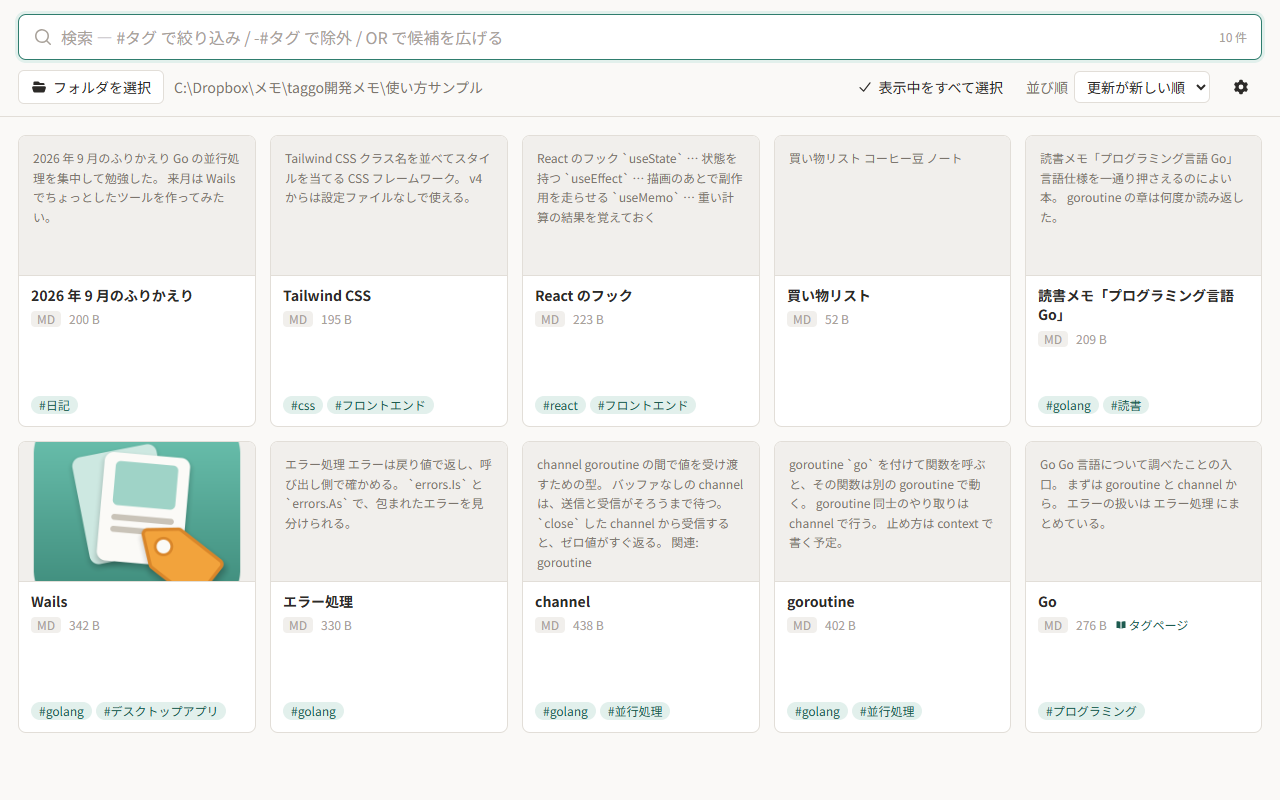
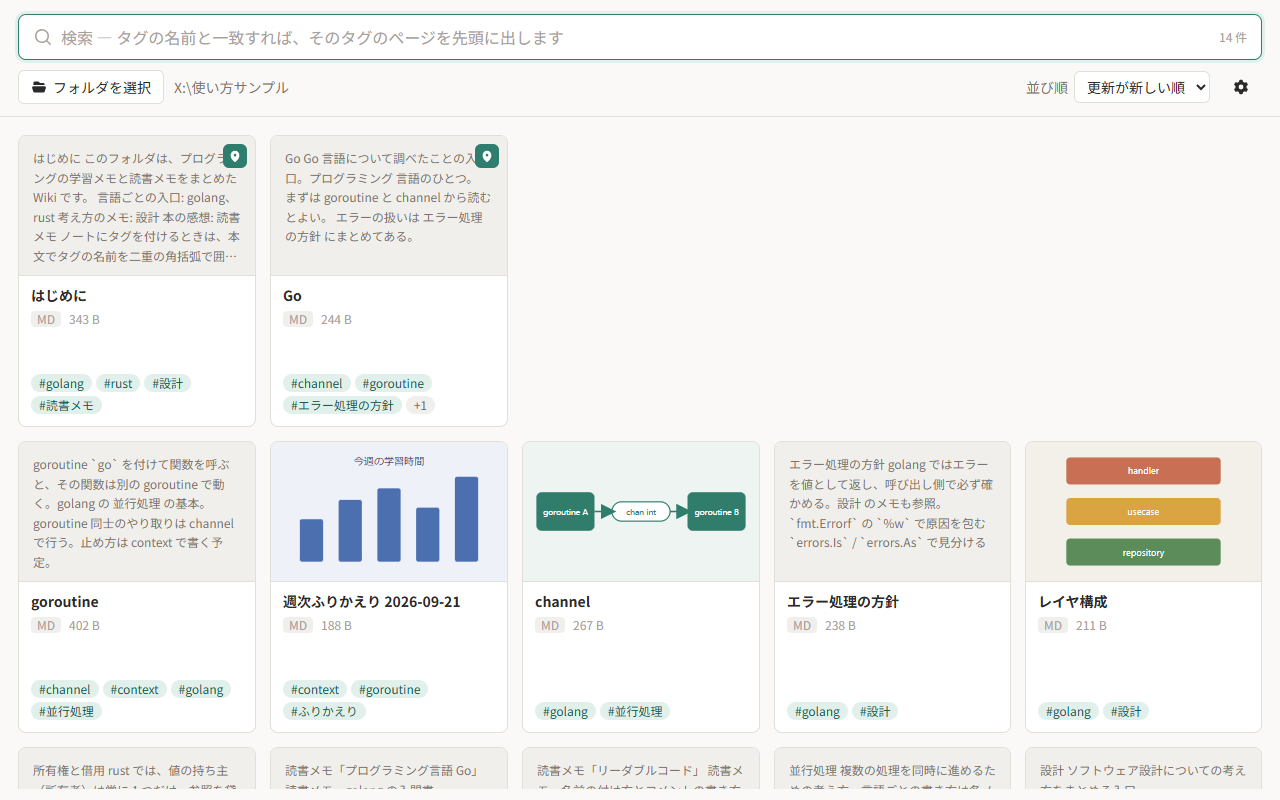
docs: 新しい仕様に合わせてドキュメントを書き直し、画像と GIF を撮り直す
- README・使い方・要件定義書・開発ドキュメントを、ファイル名がタグ・本文の
  [[タグ]]・ピン留め・本文の下の関連ページ・まだ無いページの仕様に合わせる
- 廃止済みのクラウド同期フォルダの確認ダイアログなど、実装と合わなくなって
  いた記述を直す
- サンプルのノートで使い方の画像（一覧・検索・プレビュー・関連ページ・
  まだ無いページ・タグのページ・設定）と操作の流れの GIF を撮り直す。
  廃止した機能の画像は消す

diff --git a/docs/要件定義書.md b/docs/要件定義書.md
@@ -4,34 +4,36 @@
 
 - **コンセプト**
   - Markdown を使った、タグ管理のローカル Wiki デスクトップアプリとする。
-  - 一覧・検索・タグ管理の対象は Markdown のノートだけとする。画像は Markdown の本文に埋め込んで表示するためだけに扱い、音声は扱わない。
+  - 一覧・検索・タグ管理の対象は、開いたフォルダの直下にある Markdown のノートだけとする。サブフォルダの中は読まない。画像は Markdown の本文に埋め込んで表示するためだけに扱い、音声は扱わない。
+  - ノートのファイル名（拡張子を除く）が、そのままタグを表す。`golang.md` は `golang` タグのページとする。
 - **対応環境**
   - Windows 専用とする。動作を確かめられるのが Windows だけのため、ほかの OS には対応しない。
   - クラウド同期サービスは Dropbox で動作を確かめる。
 - **メタデータ保持方針**
-  - Markdown の YAML Front Matter を正（Single Source of Truth）として扱う。
-  - アプリによるタグ変更は、実ファイル領域へ直接書き込み・更新する。
+  - ノートに付くタグは、本文の `[[タグ]]` を正（Single Source of Truth）として扱う。Front Matter は使わない。
+  - taggo はノートを書き換えない。タグの付け外しは、利用者がエディタで本文を直して行う。
 - **データベース・検索方針**
   - Pure Go 製の完全インメモリ KV ストア「BuntDB」を採用する。
   - ディスクへのデータベース永続化（.db ファイル保存）は行わない。
-  - アプリ起動時およびフォルダ選択時に配下の Markdown を走査し、BuntDB へデータを展開して高速なメモリ内検索を提供する。
+  - アプリ起動時およびフォルダ選択時にフォルダ直下の Markdown を走査し、BuntDB へデータを展開して高速なメモリ内検索を提供する。
 - **設定の保存方針**
   - アプリの好み（起動時に開くフォルダ、一覧の既定の並び順、1 回の走査の上限件数、テーマ）に限り、`%APPDATA%\taggo\settings.json` へ保存する。
   - 保存してよいのは「消えても初期状態へ戻るだけ」のものに限る。タグ・走査結果・キャッシュなど、ノートから導けるものやノートの中身の写しは保存しない。
   - 設定を一度も変えなければ、設定ファイルは作らない。前回開いたフォルダは、起動時に「前回開いたフォルダ」を開く設定にしたときだけ記録する。
   - 設定ファイルが壊れていても既定の設定で起動し、壊れたファイルは上書きせずに退避する。
+  - 例外として、一覧のピン留めは、開いたフォルダの直下の `.taggo.json` に保存する。そのフォルダの Wiki の見せ方なので、ノートと一緒に同期・バックアップされるようにするため。taggo の知らない項目は書き込むときも残し、JSON として壊れていれば書き換えない。
 - **勝手に通信しない方針**
   - クラウド同期サービスが置いた「中身がまだローカルに無いファイル」は、ファイル属性から判別し、taggo 側からは一切開かない。走査だけで同期フォルダ全体をダウンロードさせない。
-  - 該当ノートは一覧には出す（名前・サイズ・更新日時のみ）。タグの読み書き・プレビューは行わず、利用者が明示的に取り込みを指示したときだけ読み込む。
+  - 該当ノートは一覧には出す（名前・サイズ・更新日時のみ）。タグの読み取り・プレビューは行わず、利用者が明示的に取り込みを指示したときだけ読み込む。
   - 本文に埋め込まれた画像の中身がクラウド上にしか無い場合は、画像を配信しない（ノートを開いただけでダウンロードを始めない）。
   - 走査のあとで「オンラインのみ」へ戻ったファイルも開かないよう、中身を開く直前に属性を確かめ直す。
-  - Windows に登録されたクラウド同期フォルダの中を選んだ場合は、走査を始める前に確認する。
+  - `.taggo.json` の中身がクラウド上にしか無いときは、ピン留めを読み込まない。
   - 属性で判別できない方式は対象外とする。Google ドライブのストリーミング用の仮想ドライブは自動で判定し、読み込みを断る。
   - 例外として、Markdown 本文に URL だけを書いた段落は、プレビューを開いた時点でリンク先からリンクカードの内容を取得する。本文の外部画像と同じく、利用者が本文に書いた URL だけを対象とし、ローカルネットワークのアドレスには接続しない。
   - 例外として、カードのサムネイルが外部 URL の画像か YouTube 動画のときは、一覧を表示した時点でその画像を読み込む。接続先は本文に書かれた画像の URL と、YouTube のサムネイル画像（`i.ytimg.com`）だけとする。
 - **UI・デザイン方針**
   - 「最上部検索バー ＋ カード型グリッド（カード内にタグバッジ配置）」をメイン画面とする。
-  - アプリ内ではフォルダのような階層構造を持たせず、ノートを最小粒度としたフラット管理をベースとする。
+  - アプリ内ではフォルダのような階層構造を持たせず、ノートを最小粒度としたフラット管理をベースとする。フォルダ直下だけを読むので、同じ名前（同じタグ）のノートがフォルダ違いで並ぶことはない。
   - ノート同士のリンク関係で検索、可視化できるようにする。
   - スタイルは Tailwind CSS のユーティリティで組み立て、独自の CSS は配色トークンと要素の既定値に限る。アイコンは Heroicons を用い、配色は既定では OS のテーマ設定に追従させ、設定でライト・ダークに固定できるようにする。
 
@@ -42,14 +44,17 @@
 - **検索バー（最上部固定）**
   - アプリ起動時に検索バーへ自動でフォーカス（キャレット配置）を当てる。
   - 1 文字入力ごとに追従するリアルタイム（インクリメンタル）検索を提供する。
-  - `#` を入力した際、BuntDB 内の登録済み全タグのオートコンプリート（候補表示）ドロップダウンを出力する。
+  - 検索は単純な全文検索とする。空白で区切った語をすべて含むノートを結果とし、語はタイトル・ファイル名・本文の抜粋・タグから大文字小文字を区別せずに探す。タグを指定する記法（`#タグ`）や、AND / OR / NOT のような条件式は持たない。
+  - 入力全体がタグの名前と一致するときは、そのタグのページ（ファイル名がそのタグのノート）を並び順にかかわらず結果の先頭に出す。
 - **カード型ビジュアルグリッド**
   - 走査された全ノートを「カード」としてグリッド表示する。
+  - 検索していないときは、ピン留めしたノートをピン留めした順に先頭へ並べ、残りのカードは次の行から並べる。検索中はピン留めを先頭にしない（検索語と同じ名前のタグのページを先頭の別枠とする）。
   - カードには見出しと本文冒頭の抜粋を表示する。
   - 本文で画像か YouTube 動画を使っているノートは、抜粋の代わりに、本文で最初に現れる画像または動画のサムネイルを表示する。画像を読み込めないときは抜粋に戻す。
-  - 各カードの下部に埋め込みタグをバッジ（`#tag`）として一覧表示する。
+  - 各カードの下部に、ノートのタグ（本文の `[[タグ]]`）をバッジ（`#tag`）として一覧表示する。2 行に収まらないタグは「+N」と数で示し、タグ欄に乗ったときに全部を重ねて表示する。
 - **インタラクション＆操作性**
-  - カード上の「#タグバッジ」をクリックすると、そのタグが検索バーに挿入され、即座に該当タグで絞り込まれる。
+  - カード上の「#タグバッジ」をクリックすると、そのタグで検索する（そのタグのページが先頭に、タグを付けたノートがその後ろに並ぶ）。
+  - カードと詳細プレビューから、ノートを一覧の先頭にピン留めし、また外せる。
   - カードをクリックすると、画面遷移なしで詳細プレビューを開く。
   - 大量ノート描画時の遅延を防ぐため、仮想スクロール（Virtual Scroll）を採用する。
 
@@ -59,38 +64,45 @@
 
 ### タグ管理
 
-- **ファイル内埋め込みメタデータ（タグ）編集**
-  - Markdown (`.md`): YAML Front Matter (`tags: [tag1, tag2]`) の書き換えを行う。
-- **タグページ**
-  - Front Matter に `tag: タグ名` を宣言した Markdown を、そのタグを説明する「タグページ」として扱う。宣言できるタグは 1 ページにつき 1 つとする。
-  - `tag:` は `tags:`（そのノート自身に付くタグ）とは独立したキーとし、タグの書き換え時も保持する。
-  - タグで検索（`#タグ`、`#a OR #b` を含む。否定は除く）したときは、そのタグのタグページをグリッド上部に見出しとして別枠で表示し、グリッドからは除外する。
-  - タグページの詳細プレビューでも、関連ページの列は通常のノートと同じ内容（リンク先・リンク元・同じタグのノート）とする。
-  - 同じタグを複数のファイルが宣言している場合は、警告を表示したうえで全てを表示する。
-- **反映**
-  - 実ファイルの書き込み成功時、BuntDB 上のメモリ内データ（JSON）を即座に更新・再インデックスする。
+- **タグの付け方**
+  - ノートの本文に `[[タグ]]` と書いたものだけをタグとする。コードブロックとインラインコードの中の `[[ ]]` はタグとして読まない。
+  - Front Matter（先頭の `---` で囲んだ YAML）は使わない。`tags:` や `title:` を書いても、タグや見出しにはならない。ほかのツールで書いたノートに Front Matter があれば、プレビューと抜粋からは外して表示する（中身は読まない）。
+  - taggo にタグの編集機能は持たせない。タグの付け外しは、エディタで本文を直して行う。
+- **タグのページ**
+  - ノートのファイル名（拡張子を除く）が、そのタグを表すページとなる。タグとファイル名の突き合わせでは、大文字小文字と空白の連なりを区別しない。
+  - 本文の `[[タグ]]` は、プレビューでそのタグのページへのリンクとして表示する。ページがまだ無ければ赤みがかった色で示し、クリックすると「まだ無いページ」として開く（後述）。
+  - Windows のファイル名に使えない文字を含むタグには、ページを作らない。
+- **ピン留め**
+  - ノートを一覧の先頭にピン留めできる。ピン留めは開いたフォルダ直下の `.taggo.json` にファイル名の並びとして保存し、外で書き換えられたときも読み直す。
 - **BuntDB によるインメモリタグ抽出＆検索**
-  - 指定ルート配下の Markdown を非同期スキャンし、BuntDB へデータ投入する（Key: ファイルパス, Value: メタデータ JSON）。
-  - BuntDB のカスタムインデックスを利用し、複数タグの AND / OR / NOT 検索および更新日時順ソートを提供する。
+  - 指定ルート直下の Markdown を非同期スキャンし、BuntDB へデータ投入する（Key: ファイルパス, Value: メタデータ JSON）。
+  - BuntDB のカスタムインデックスを利用し、全文検索および更新日時順・名前順のソートを提供する。
   - File Watcher による変更検知時、BuntDB 上の該当レコードを自動で同期更新・削除する。
-- **複数ノート選択時の一括（バルク）埋め込みタグ編集機能**
-  - メイン画面で複数ノートを選択でき、一括でタグ編集できる機能を提供する。
 
 ### プレビュー機能
 
 - **Markdown ドキュメントプレビュー**
   - CommonMark / GFM (GitHub Flavored Markdown) 規格に準拠してレンダリングする。
-  - 冒頭の Front Matter 部分を本文から除外し、ヘッダーに「タグバッジ」として分離表示する。
+  - ノートのタグ（本文の `[[タグ]]`）を、ヘッダーに「タグバッジ」として表示する。
   - コードハイライト、テーブル表示、mermaid をサポートする。
   - URL だけを書いた段落は、リンク先の OGP（タイトル・説明・画像）を載せたリンクカードとして表示する。YouTube と X の投稿は oEmbed から取得する。取得できなければ通常のリンクとして表示する。
   - 本文から相対パスで参照された画像（`![](./img/a.png)` 等）を、Markdown ファイルの位置を基準に解決して表示する。`/` 始まりは開いているフォルダを基準とする。
   - 配信する画像は、開いているフォルダ配下にあり、中身がブラウザで表示できる形式（JPEG・PNG・GIF・WebP・AVIF・BMP・SVG）のファイルに限る。形式は拡張子ではなく中身から判定する。
-  - Markdown ファイル間の内部リンク（`.md` を指す Markdown 記法のリンク）のメモリ内
-    グラフ保持と、関連ページ表示を提供する。`[[WikiLink]]` 記法は対象外とする。
-  - 本文中のリンクをクリックしたときは、そのノートのプレビューへ切り替える。
-  - 関連ページは本文の右サイドに 2 カラムで並べ、そのページがリンクしているページ群と、そのページへリンクしているページ群の双方をカードで示す。リンク先がまだ存在しない場合も、行き先が無いことが分かる形で残す。
-  - リンク先がまだ存在しないリンクは、本文中では赤みがかった色で示す。本文のリンクや関連ページの「まだ無いノート」をクリックすると、リンクが指す場所（開いているフォルダ配下の `.md` / `.markdown` に限る）にファイル名を見出しにした Markdown ファイルを新規作成し、拡張子に紐づいた既定のエディタで開く。同じ名前のファイルが既にあれば、上書きせずにそのまま開く。
-  - リンク先はリンク元のノートの位置を基準に 1 つへ定める。ファイル名が同じというだけで、無関係なフォルダのノートを関連に出さない。
+  - Markdown ファイル間の内部リンク（`.md` を指す Markdown 記法のリンク）と、タグ（`[[タグ]]`）のメモリ内
+    グラフ保持と、関連ページ表示を提供する。タグは、そのタグのページへのリンクとして扱う。
+  - 本文中のリンクをクリックしたときは、そのノートのプレビューへ切り替える。Markdown のリンクの行き先は、リンク元のノートの位置を基準に解決する（`/` 始まりは開いているフォルダが基準）。
+  - たどったノートは履歴として持ち、戻る・進むで行き来できる。
+  - 関連ページは本文の下にカードのグリッドで並べる。リンクの向き（リンク先・リンク元）や「同じタグのノート」による欄分けはしない。
+  - ノートに付いているタグごとに、「そのタグのページ（先頭）と、そのタグを持つノート」を 1 つのグループとする。グループ内のノートは、開いているノートと同じタグを多く持つものほど先に並べる（同じなら更新日時の新しい順）。
+  - 開いているノートを指しているノート（リンク元）を、一番上のグループとする。開いているノートが表すタグ（ファイル名）を持つノートと、Markdown のリンクで開いているノートへリンクしているノートの両方を含む。
+  - 開いているノートが Markdown のリンクでリンクしているノート（リンク先）は、最後に 1 つのグループとして本文でリンクしている順に並べる。
+  - 前のグループで表示したノートは、後のグループには表示しない。1 つのグループに並べるのは 24 件までとし、超えた分は件数を示してタグの検索へ案内する。
+  - 行き先がまだ存在しないもの（ページの無いタグ、行き先の無いリンク）も、行き先が無いことが分かる形で残す。
+  - リンク先がまだ存在しないリンクは、本文中では赤みがかった色で示す。
+- **まだ無いページ**
+  - 本文のリンクや `[[タグ]]`、関連ページの「まだ無いノート」をクリックしたときは、ファイルを作らずに、そのページを詳細プレビューで開く。行き先は開いているフォルダ直下の `.md` / `.markdown` に限り、タグのページは `タグ.md` とする。
+  - まだ無いページでは、本文の代わりに「md ファイルを作成する」ボタンを表示し、本文の下にはふつうのノートと同じく関連ページ（そのページを指しているノートなど）を並べる。
+  - 「md ファイルを作成する」を押すと、ファイル名を見出しにした Markdown ファイルを新規作成し、拡張子に紐づいた既定のエディタで開く。同じ名前のファイルが既にあれば、上書きせずにそのまま開く。作ったファイルをウォッチャーが拾うと、開いているページは本文の表示に切り替わる。
 - **本文中の画像のプレビュー**
   - Markdown プレビューの本文中の画像をクリックすると、画像ビューアを Markdown プレビューの上に重ねて開く。
   - 拡大・縮小、全体表示、原寸表示を提供する。解像度を表示する。
@@ -105,10 +117,11 @@
   - RAM の過剰消費を防ぐため、1 度のスキャンで BuntDB に展開するファイル件数に上限（既定は 2 万件。設定で 1,000〜10 万件に変えられる）を設ける。上限を超える分は自動では読み込まず、利用者が明示的に選んだときだけ続きを追加で読み込む。
 - **UI・ファイル操作関連**
   - 従来の OS のような「階層型ツリー（フォルダーツリー）」は排除し、タグと検索によるフラットな閲覧に特化する。
-  - ドラッグ＆ドロップによるカードの手動自由配置はサポートせず、更新順・名前順・関連度順の自動ソートのみとする。
-  - 読み取り専用・プロテクト指定ファイルへのタグ編集は行わず、エラー表示とする（メモリ上のみ一時更新する不整合処理は行わない）。
-  - 本文編集・画像加工など、既存の Markdown ファイルの Front Matter のタグ以外に対する編集・加工機能は実装しない。
-  - ファイルの新規作成は、まだ無いノートへのリンクから作る場合に限る。それ以外（タグページを含む）は利用者がエディタで作成する。
+  - ドラッグ＆ドロップによるカードの手動自由配置はサポートせず、更新順・名前順・関連度順の自動ソートのみとする（ピン留めしたノートの順番は `.taggo.json` で決める）。
+  - 本文編集・タグ編集・画像加工など、既存の Markdown ファイルへの書き込みは一切行わない。
+  - 複数のノートを選択してまとめて操作する機能は持たない。
+  - ファイルの新規作成は、まだ無いページで「md ファイルを作成する」を押した場合と、ピン留めを保存する `.taggo.json` に限る。それ以外は利用者がエディタで作成する。
+  - サブフォルダの中のノートは扱わない。
 - **対応フォーマット関連**
   - 音声ファイルは扱わない。走査・検索・タグ管理・プレビューのいずれの対象にもしない。
   - 画像ファイルは走査・検索・タグ管理の対象にしない。一覧にも出さず、Markdown の本文に埋め込まれたものを表示するだけとする。

diff --git a/docs/開発ドキュメント.md b/docs/開発ドキュメント.md
@@ -71,13 +71,24 @@ git push origin main v0.1.0
 
 ## 設計
 
-- 一覧・検索・タグ管理の対象は Markdown（`.md` / `.markdown`）だけです。走査もウォッチャーも Markdown 以外のファイルは無視します。
-- Markdown の Front Matter が正（Single Source of Truth）です。アプリ側にデータベースを保存しません。
-- 検索は Pure Go の [BuntDB](https://github.com/tidwall/buntdb) をインメモリで使い、起動時・フォルダ選択時に配下の Markdown を走査して展開します。終了時にメモリごと破棄されます。
+- 一覧・検索・タグ管理の対象は、開いたフォルダの直下にある Markdown（`.md` / `.markdown`）だけです。走査もウォッチャーもサブフォルダの中と Markdown 以外のファイルは無視します（ウォッチャーは例外として `.taggo.json` の変更を拾います）。
+- ノートのファイル名（拡張子を除く）がタグを表します（`model.PageTag`）。store はタグのキー（`model.TagKey`。小文字にして空白の連なりをまとめたもの）からそのページを引く索引 `tagPages` を持ちます。サブフォルダを読まないのは、同じ名前のページがフォルダ違いで並ばないようにするためです。
+- ノートのタグは、本文の `[[タグ]]`（`meta.bodyTags`。コードブロックとインラインコードの中は除く）だけを `model.Entry.Tags` に入れます。Front Matter は使いません。先頭の `---` で囲んだブロックは、見出しや抜粋に紛れ込まないよう `meta.StripFrontMatter` で本文から外すだけで、中身は読みません（YAML のライブラリも使っていません）。
+- taggo はノートを書き換えません。タグの編集・一括編集の機能は持たず、ファイルを新しく作るのは「まだ無いページ」から md ファイルを作るときと、`.taggo.json` だけです。
+- 本文の `[[タグ]]` は、プレビューでは remark プラグイン（`frontend/src/bracketTags.ts`）がリンクに変え、`data-tag` 属性でふつうのリンクと見分けます。
+- まだ無いページ：`[[タグ]]` や行き先の無い Markdown のリンクをたどると、`App.TagPage` / `App.LinkedPage` が「まだ無いページ」のエントリ（`model.NewMissing`。`Missing` が true で、BuntDB には載せない）を返します。画面はそれを一覧の外のノートとして開き、本文の代わりに「md ファイルを作成する」ボタンを出します。
+  - `App.RelatedPages` は、まだ無いページのパスでも `store.Related` に仮のエントリを渡すので、そのページを指しているノート（リンク元）が並びます。
+  - ボタンは `App.CreatePage` を呼び、見出しだけのファイルを作ってエディタで開きます。ウォッチャーが作ったファイルを拾うと、同じパスのエントリが届くので、画面は開いているページを本物のノートに差し替えます。
+  - 扱うパスは開いているフォルダ直下の `.md` / `.markdown` に限ります（`App.checkPagePath`）。ファイル名に使えないタグは `model.TagFileName` で断ります。
+- Markdown の本文が正（Single Source of Truth）です。アプリ側にデータベースを保存しません。
+- 検索は Pure Go の [BuntDB](https://github.com/tidwall/buntdb) をインメモリで使い、起動時・フォルダ選択時にフォルダ直下の Markdown を走査して展開します。終了時にメモリごと破棄されます。
+  - 検索バーの文字列は、空白で区切った語の並びとして読みます（`internal/search`）。語をすべて含むノートが結果で、条件式や `#タグ` の記法はありません。
+  - 入力全体がタグのキーと一致するときは、そのタグのページを `Result.Entries` の先頭に置き、その件数を `Result.Head` で返します。検索語が無いときは、ピン留めしたノートを同じように先頭に置きます。グリッド（`CardGrid`）は先頭の `Head` 件と残りを別の行に並べます。
 - 本文中の画像は DB に載せず、`/taggo/image?path=…` で配信します。配信するのは、開いているフォルダ配下（シンボリックリンクの実体も含めて確かめる）にあり、先頭バイトから判定した形式がブラウザで表示できる画像（`internal/imagefile`）のファイルだけです。拡張子は見ません。中身がクラウド上にしか無い画像は、属性を見て配信を断ります。
 - カードのサムネイル（`model.Entry.Thumbnail`）は走査時に本文から取り出します。コードブロックの外で最初に現れる Markdown の画像（ローカルのパスか http(s) の URL）か YouTube 動画の URL で、画像は書かれたままのパスを持ち、YouTube は動画 ID から `https://i.ytimg.com/vi/<ID>/mqdefault.jpg` を組み立てます。ノートからの相対パスの解決はプレビューと同じ `frontend/src/notePath.ts` で行い、ローカルの画像は `/taggo/image` で配信します。読み込めなければカードは本文の抜粋に戻ります。
+- カードのタグ欄は高さを 2 行ぶんに決めてあり、何個収まるかは描画してから実際にあふれているかを測って決めます（`Card.tsx` の `CardTags`）。収まらない分は「+N」で数を示し、タグ欄に乗ると全部を重ねて見せます。
 - 本文中の画像をクリックすると、`DetailPanel` の上に `ImagePreview` を重ねて開きます。画像はノートではないので詳細プレビューの履歴には積まず、閉じると同じスクロール位置の本文へ戻ります。
-- RAM の消費を抑えるため、1 回の走査で展開する件数に上限（2 万件）を設けています。上限を超えたフォルダは走査順（`filepath.WalkDir` の順）の先頭だけを読み込み、最後に読んだファイルの相対パスを再開位置として覚えます。「続きを読み込む」ではその位置から次の分を走査し、今の DB へ追記します。
+- RAM の消費を抑えるため、1 回の走査で展開する件数に上限（2 万件）を設けています。上限を超えたフォルダは走査順（フォルダ直下のファイル名の順）の先頭だけを読み込み、最後に読んだファイルの相対パスを再開位置として覚えます。「続きを読み込む」ではその位置から次の分を走査し、今の DB へ追記します。
   - 上限に達したあともディレクトリの列挙だけは最後まで続け、残りの件数を数えます。ファイルは開かないので、クラウド同期フォルダでもダウンロードは起きません。
   - ウォッチャーは、再開位置より後ろ（まだ読み込んでいない範囲）のファイルの変更を無視します。そうしないと、その 1 件だけが一覧に紛れ込むためです。
 - ファイルウォッチャーが外部エディタによる変更も検知し、該当レコードを同期・削除します。
@@ -86,7 +97,14 @@ git push origin main v0.1.0
   - 書き込みは同じフォルダの一時ファイルへ書いてから置き換えます。読み込み時に知らない値や範囲外の値は項目ごとに既定値へ直し、JSON として壊れていれば `settings.json.bak` へ退避して既定値で起動します。
   - 起動時に開くフォルダは、コマンドライン引数 → 設定 → 何も開かない、の順に決めます（`App.OpenStartupFolder`）。フォルダが見つからないなどの警告は、起動フックの時点では画面がイベントを受け取れないため、画面から `TakeStartupWarnings` で取りに来てもらいます。
   - 並び順とテーマを最初の描画から反映するため、フロントエンドは設定を読んでから React を描きます（`main.tsx`）。
-- タグページ（Front Matter の `tag:`）は `model.Entry.TagPage` に読み込み、store がタグからタグページのパスを引く索引を持ちます。検索結果の `TagPages` に検索中のタグのタグページを別枠で返し、`Entries` と `Total` からは外します。関連ページでは、同じタグを宣言しているほかのノートを `Duplicates` として返します。
+- 関連ページ（`store.Related`）は、グループ（`RelatedGroup`）の並びとして返します。リンク元のグループ（開いているノートが表すタグを持つノート `tagged` と、Markdown のリンク元 `backlinks` を合わせたもの）、付いているタグごとのグループ（タグの順）、Markdown のリンク先のグループの順です。
+  - タグのグループは、先頭にタグのページ（`Page`。まだ無ければ `Path` が空）、後ろにそのタグを持つノート（逆引き索引 `tagged`）を、開いているノートと重なるタグの多い順・更新日時の新しい順に並べます。
+  - 並べたノートは「表示済み」として覚え、後のグループには出しません。1 グループは `groupLimit`（24 件）までで、超えた分は `More` に数だけを入れます。
+  - 本文の色分けに使う、行き先の無いリンク（`MissingLinks`）とページの無いタグ（`MissingTags`）は、グループとは別に返します。後のグループで表示が省かれても、本文の色が変わらないようにするためです。
+  - 画面（`RelatedPages`）は本文の下に、グループごとのカードのグリッドとして描きます。カードの抜粋・サムネイルは一覧のカードと同じ `NotePreview` を使います。
+- ピン留めは開いたフォルダ直下の `.taggo.json`（`internal/folderconf`）にファイル名の並びとして保存します。フォルダの Wiki の見せ方なので、`%APPDATA%` ではなくノートと一緒に置いています。
+  - 書き込むときは毎回ファイルを読み直し、taggo の知らない項目は残します。JSON として壊れていれば書き換えずにエラーにします。一時ファイルは `.taggo.json.taggo-XXXX` で、ウォッチャーは自分の書き込みとして無視します。
+  - ウォッチャーが `.taggo.json` の変更を拾うと読み直し、`pins:changed` イベントで画面に引き直させます。中身がクラウド上にしか無いときは読みません。
 - クラウド同期フォルダの「オンラインのみ」のファイルは、属性で見分けて開きません。判定の前提として、起動時にプレースホルダーを通常ファイルとして見せる設定（`RtlSetProcessPlaceholderCompatibilityMode`）へ固定しています。そうしないと `os.Stat` が属性を問い合わせるだけで済まず、ファイルを開きに行くためです。
 - 同期フォルダの属性は、更新日時を変えずに変わるためウォッチャーでは気付けません。そのため、中身を開く直前に毎回属性を確かめ直します。なお `FILE_FLAG_OPEN_NO_RECALL` を付けて開いても、Dropbox ではダウンロードが始まるため、安全網には使えません。
 - リンクカードの内容は Go 側（`internal/linkcard`）で取得します。WebView からは CORS のため他サイトの HTML を読めないためです。接続先は名前解決後のアドレスで判定し、ローカルネットワークには接続しません。YouTube は地域によって同意画面へ飛ばされ、X はブラウザ以外に OGP を返さないため、この 2 つは oEmbed を使います。
@@ -96,12 +114,13 @@ git push origin main v0.1.0
 
 | パッケージ           | 役割                                                 |
 | -------------------- | ---------------------------------------------------- |
-| `internal/model`     | 共有するデータ型とタグの正規化                       |
-| `internal/meta`      | Markdown の Front Matter のタグの読み書き            |
-| `internal/store`     | BuntDB への展開と検索・タグ索引・リンクの関連付け    |
+| `internal/model`     | 共有するデータ型とタグの正規化・ファイル名とタグの対応 |
+| `internal/meta`      | Markdown の本文からタグ（`[[タグ]]`）・見出し・抜粋・リンクを読み取る |
+| `internal/store`     | BuntDB への展開と検索・タグ索引・リンクの関連付け・ピン留めの並び |
 | `internal/search`    | 検索バーの文字列を問い合わせへ変換する               |
-| `internal/scan`      | フォルダ走査とメタデータの並列読み取り               |
+| `internal/scan`      | フォルダ直下の走査とメタデータの並列読み取り         |
 | `internal/watcher`   | ファイル変更の検知                                   |
+| `internal/folderconf` | フォルダ直下の設定ファイル（`.taggo.json`。ピン留め）の読み書き |
 | `internal/cloudfile` | クラウド同期フォルダとオンラインのみのファイルの判定 |
 | `internal/imagefile` | 本文中の画像の形式判定（配信してよい画像か）         |
 | `internal/linkcard`  | リンクカードに出す OGP / oEmbed の取得とキャッシュ   |
